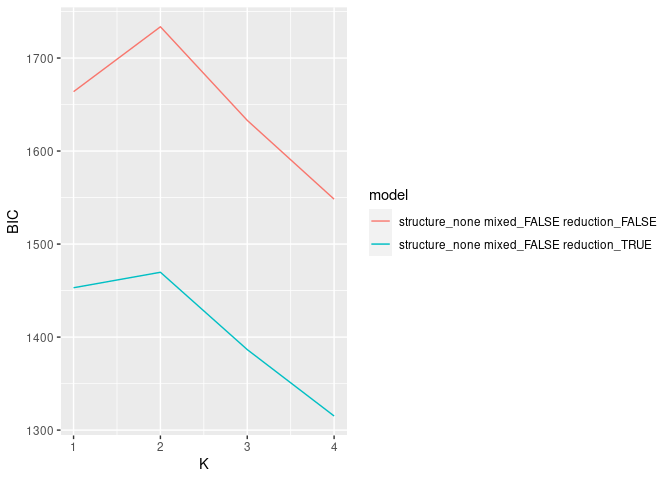
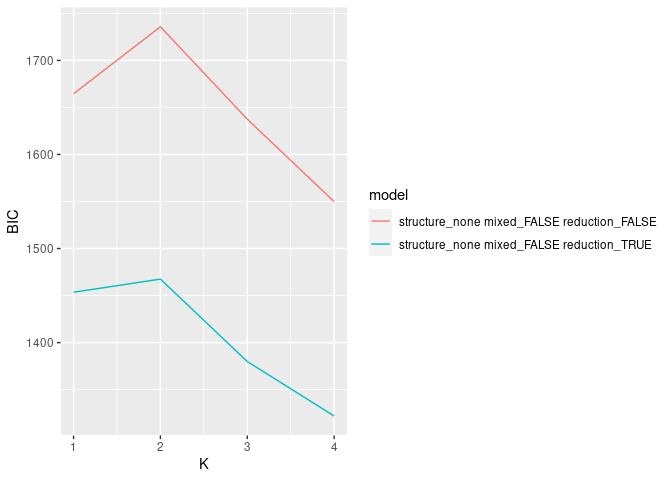
updated readme

diff --git a/README.md b/README.md
@@ -3,18 +3,23 @@ funclustRSW
 
 This repository contains R code and data of the paper of Capezza,
 Centofanti, Lepore, and Palumbo, “Functional clustering methods for
-resistance spot-welding process data in the automotive industry”. This
-repository contains the following files:
+resistance spot-welding process data in the automotive industry”. Note
+that this work was developed within the activities of the project
+ARS01\_00861 “Integrated collaborative systems for smart factory -
+ICOSAF” coordinated by CRF (Centro Ricerche Fiat Scpa - www.crf.it) and
+financially supportedby MIUR (Ministero dell’Istruzione, dell’Università
+e della Ricerca). This repository contains the following files:
 
 -   curvclust\_0.0.1.tar.gz is the source code of the R package
     funclust, also available at:
     <https://cran.r-project.org/src/contrib/Archive/curvclust/>
--   data.csv contains the functional data set
+-   data.csv contains the ICOSAF project functional data set
 -   fclust.R contains functions specific to implement the fclust method
 -   functions.R contains functions to apply all functional clustering
     approaches
 -   pad\_profiles.csv contains information about the welding tool wear
-    level for some of the curves in the functional data set
+    level for some of the curves in the ICOSAF project functional data
+    set
 -   reference\_profile.csv contains a reference dynamic resistance curve
     for illustrative purposes
 -   script.R contains the script performing all the analysis shown in
@@ -38,9 +43,9 @@ equally-spaced grid. It requires the following files:
     Capezza et al. (2020).
 
 Moreover, this code uses the data from the file `data.csv`, which
-contains the data set analyzed in Capezza et al. (2020). Alternatively,
-one can use another data set that must be arranged appropriately as in
-the next section “Data preparation”.
+contains the ICOSAF project functional data set analyzed in Capezza et
+al. (2020). Alternatively, one can use another data set that must be
+arranged appropriately as in the next section “Data preparation”.
 
 For each functional clustering method, we show how to perform the
 following steps:
@@ -160,8 +165,8 @@ accordin to BIC.
 mod1$class_opt_BIC
 ```
 
-    ##  [1] 1 2 1 1 2 1 2 1 2 2 1 2 1 1 1 2 2 2 2 2 2 2 1 1 2 2 2 1 2 1 1 1 1 2 1 1 2 1
-    ## [39] 2 1 1 1 2 2 1 1 1 1 2 1 2 1 2 2
+    ##  [1] 1 2 2 1 2 2 2 2 2 2 1 2 1 1 1 2 2 2 2 2 2 2 2 1 2 2 2 1 2 1 1 1 1 2 1 1 2 2
+    ## [39] 2 1 1 2 2 2 1 1 1 1 2 1 2 2 2 2
 
 #### Plot of profiles coloured by cluster
 
@@ -264,15 +269,15 @@ bic
 ```
 
     ##      structure_none mixed_FALSE reduction_TRUE
-    ## [1,]                                  1453.071
-    ## [2,]                                  1469.700
-    ## [3,]                                  1386.544
-    ## [4,]                                  1315.170
+    ## [1,]                                  1453.584
+    ## [2,]                                  1467.521
+    ## [3,]                                  1379.903
+    ## [4,]                                  1321.963
     ##      structure_none mixed_FALSE reduction_FALSE
-    ## [1,]                                   1663.839
-    ## [2,]                                   1733.597
-    ## [3,]                                   1632.961
-    ## [4,]                                   1548.261
+    ## [1,]                                   1664.557
+    ## [2,]                                   1735.762
+    ## [3,]                                   1637.524
+    ## [4,]                                   1549.925
 
 We can plot BIC for every number of clusters and every structure by
 arranging the matrix of BIC values in a long-format data frame and then
@@ -290,14 +295,14 @@ bic_df_long
     ## # A tibble: 8 x 3
     ##       K model                                        BIC
     ##   <dbl> <chr>                                      <dbl>
-    ## 1     1 structure_none mixed_FALSE reduction_TRUE  1453.
-    ## 2     1 structure_none mixed_FALSE reduction_FALSE 1664.
-    ## 3     2 structure_none mixed_FALSE reduction_TRUE  1470.
-    ## 4     2 structure_none mixed_FALSE reduction_FALSE 1734.
-    ## 5     3 structure_none mixed_FALSE reduction_TRUE  1387.
-    ## 6     3 structure_none mixed_FALSE reduction_FALSE 1633.
-    ## 7     4 structure_none mixed_FALSE reduction_TRUE  1315.
-    ## 8     4 structure_none mixed_FALSE reduction_FALSE 1548.
+    ## 1     1 structure_none mixed_FALSE reduction_TRUE  1454.
+    ## 2     1 structure_none mixed_FALSE reduction_FALSE 1665.
+    ## 3     2 structure_none mixed_FALSE reduction_TRUE  1468.
+    ## 4     2 structure_none mixed_FALSE reduction_FALSE 1736.
+    ## 5     3 structure_none mixed_FALSE reduction_TRUE  1380.
+    ## 6     3 structure_none mixed_FALSE reduction_FALSE 1638.
+    ## 7     4 structure_none mixed_FALSE reduction_TRUE  1322.
+    ## 8     4 structure_none mixed_FALSE reduction_FALSE 1550.
 
 ``` r
 ggplot(bic_df_long) +
